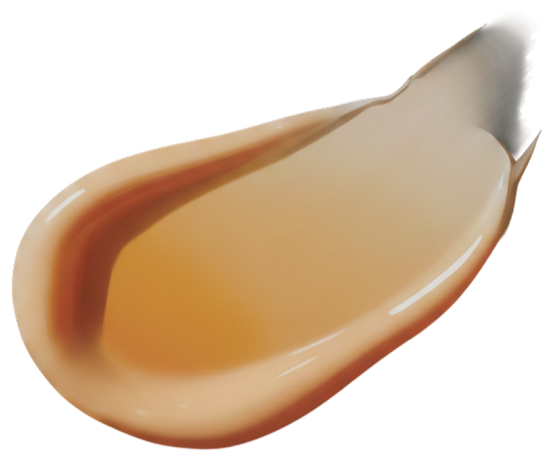
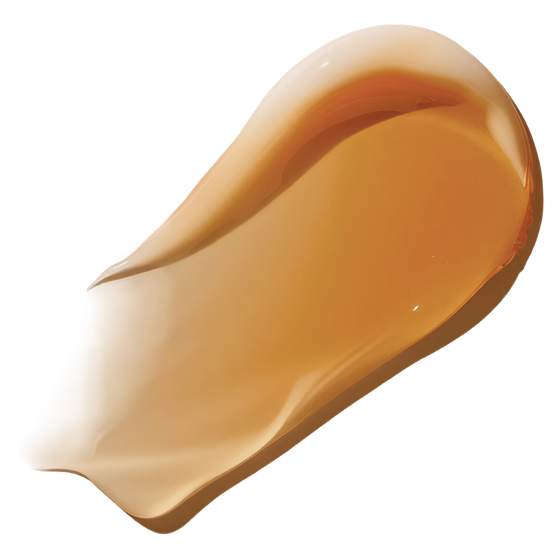
Tune product-card hover accents
- New orange cream smudge for the Purify smear
- Cutout ingredients +30%
- Nourish jar is wide: spread its accents past the jar edges (smear below)
  on the 3-col layout so they're visible

diff --git a/app/globals.css b/app/globals.css
@@ -768,18 +768,36 @@ img {
   transition-delay: 0s;
 }
 .b--a {
-  width: 25%;
-  left: 14%;
-  top: 40%;
+  width: 33%;
+  left: 10%;
+  top: 38%;
   --r: -13deg;
   transition-delay: 0.06s;
 }
 .b--b {
-  width: 22%;
-  left: 60%;
-  top: 18%;
+  width: 29%;
+  left: 58%;
+  top: 14%;
   --r: 10deg;
   transition-delay: 0.12s;
+}
+
+/* the Nourish jar is much wider than the tube/serum, so on the 3-column
+   layout spread its accents past the jar's edges (smear lower) to stay visible */
+@media (min-width: 901px) {
+  .card--nourish .b--smear {
+    width: 50%;
+    left: 26%;
+    top: 52%;
+  }
+  .card--nourish .b--a {
+    left: -6%;
+    top: 44%;
+  }
+  .card--nourish .b--b {
+    left: 72%;
+    top: 22%;
+  }
 }
 .card__bottom {
   display: flex;

diff --git a/app/page.js b/app/page.js
@@ -112,7 +112,7 @@ export default function Home() {
           <div className="products__grid" data-reveal="stagger">
             {PRODUCTS.map((p) => (
               <article
-                className="card"
+                className={`card card--${p.name.toLowerCase()}`}
                 key={p.name}
                 style={{ "--c1": p.c1 }}
               >